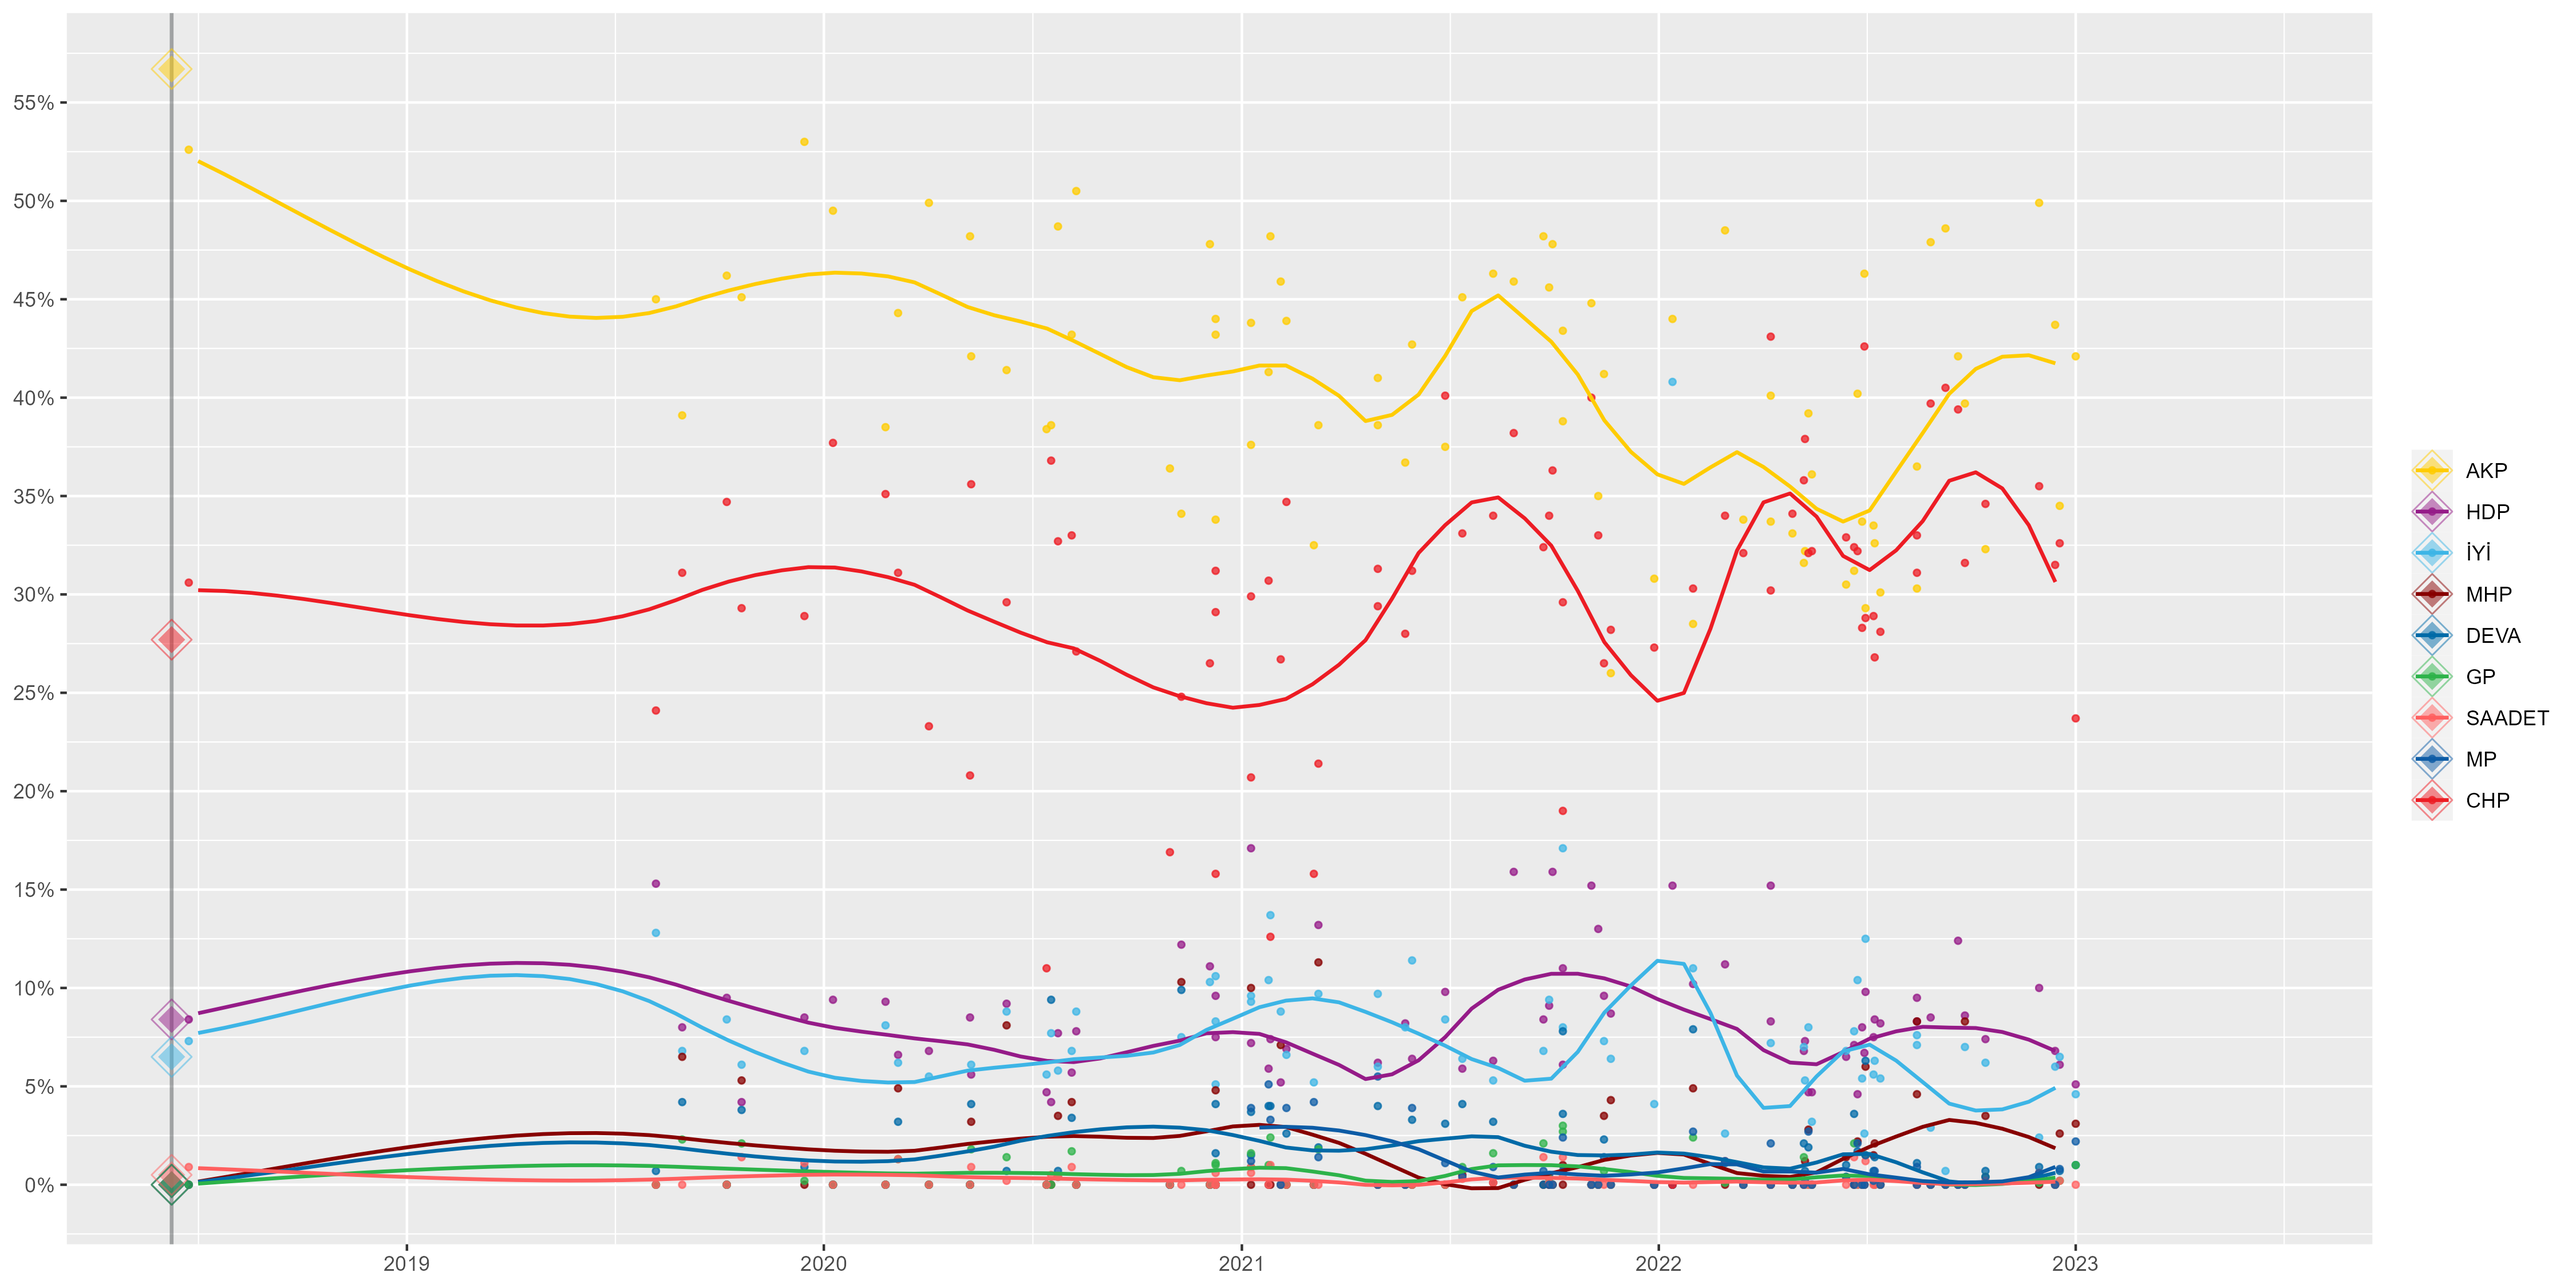
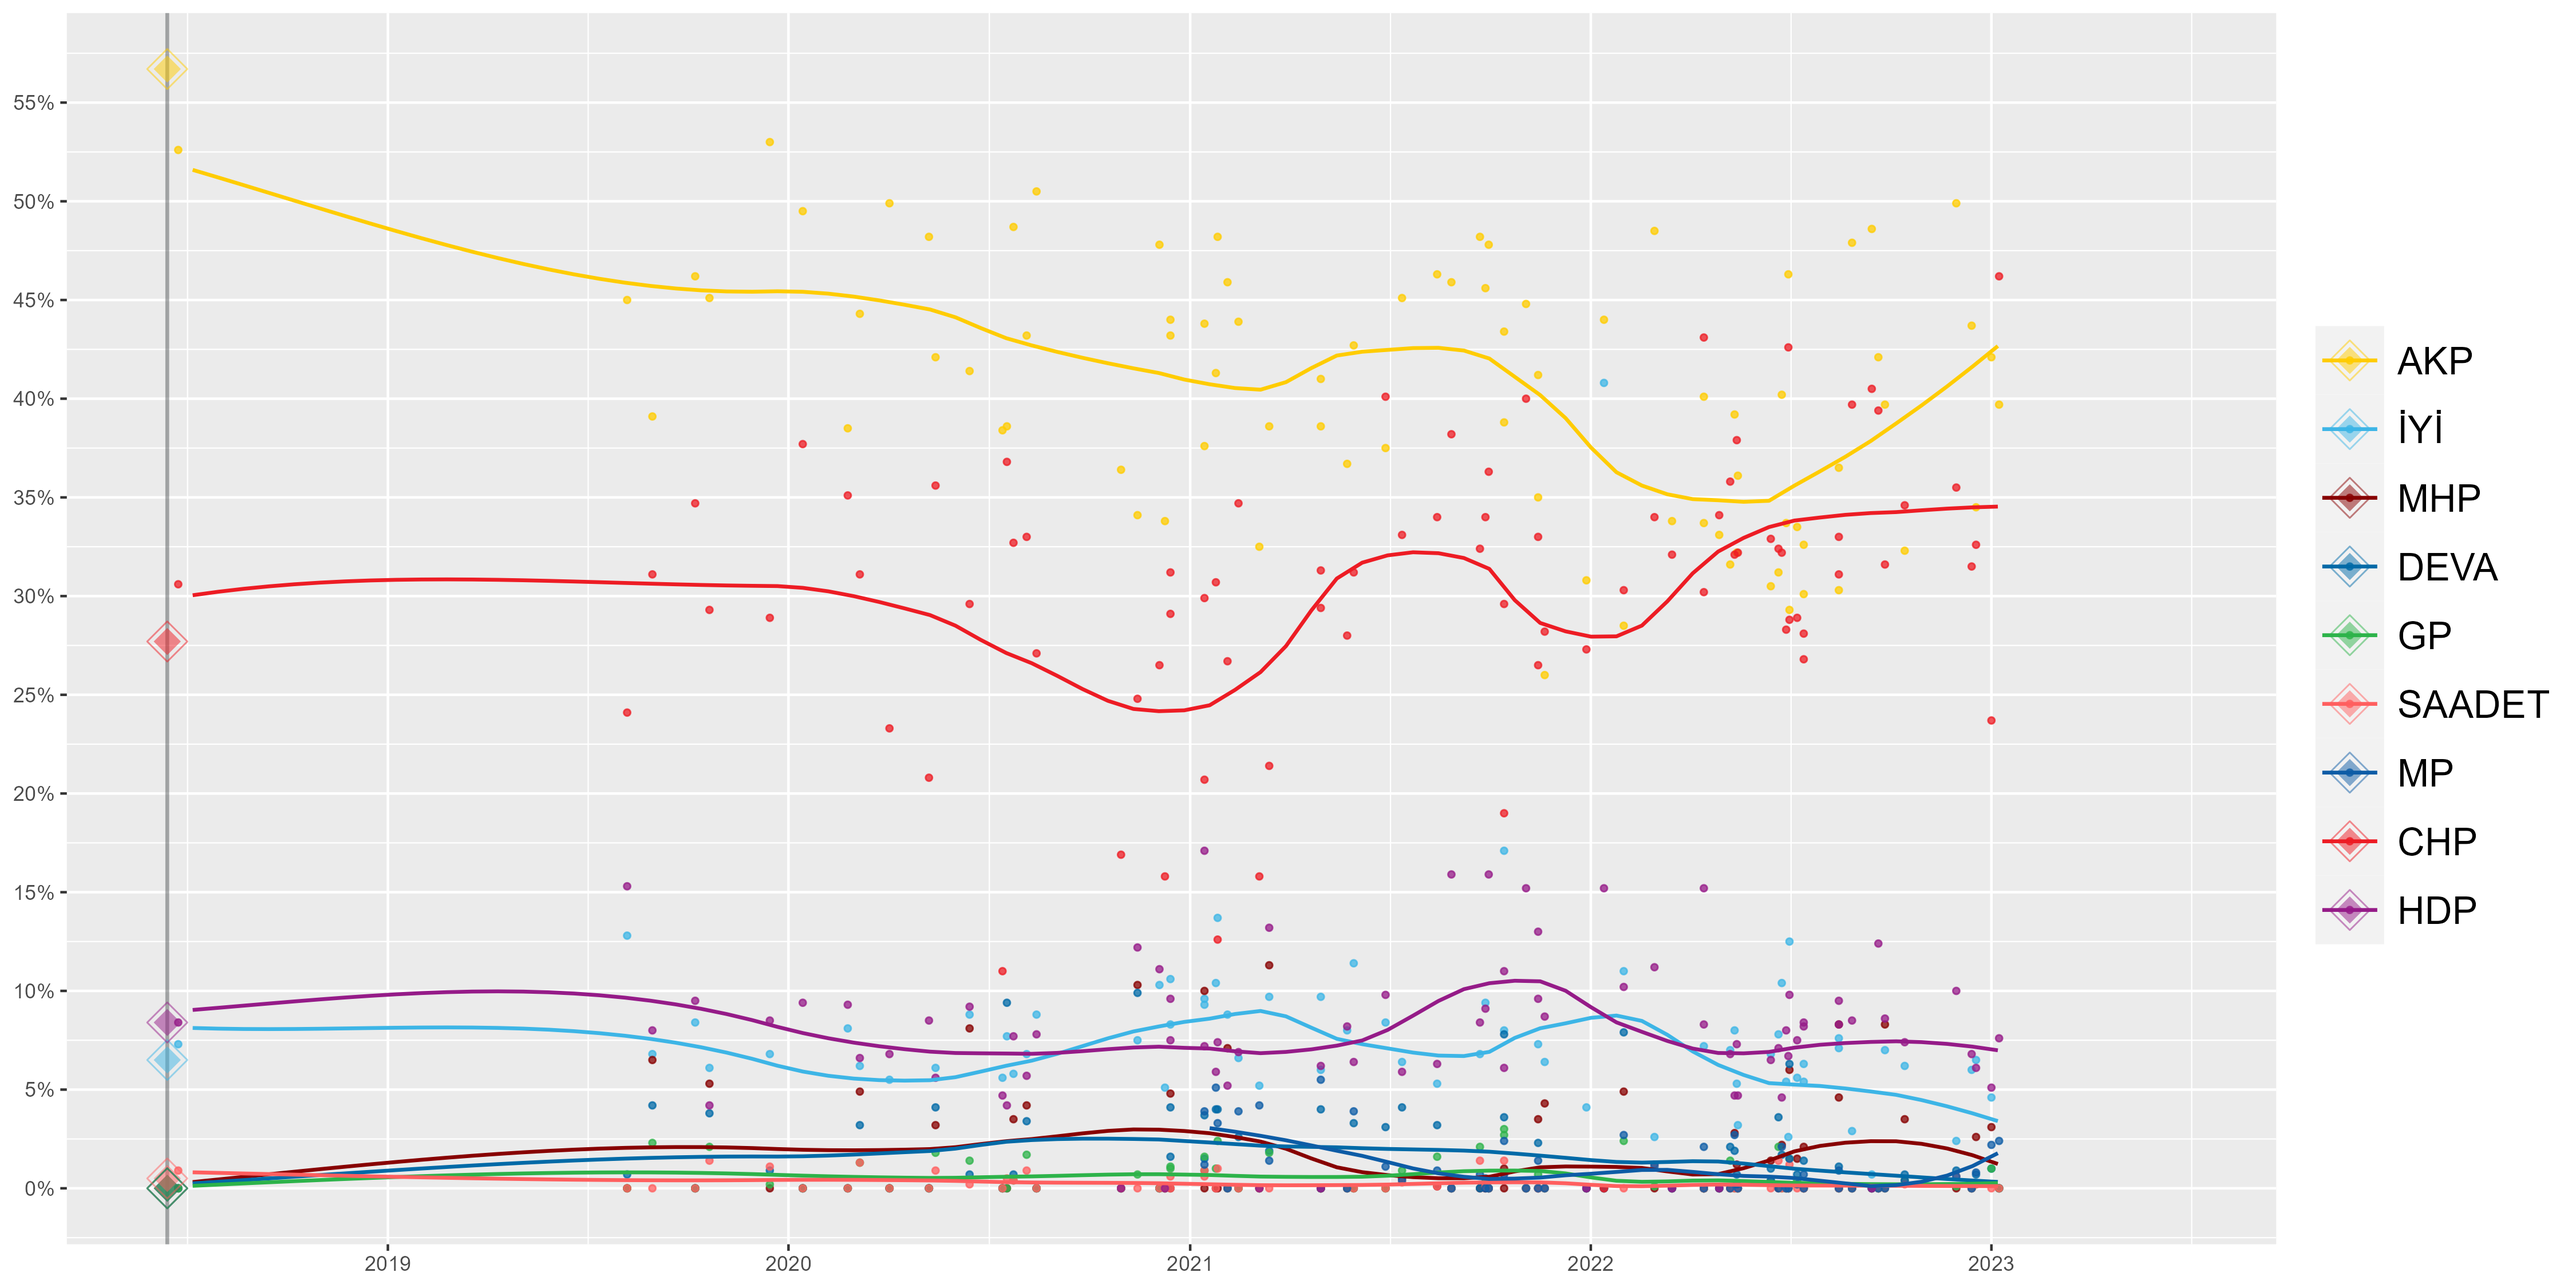
Updated Polls

diff --git a/Turkish_Elections/data.py b/Turkish_Elections/data.py
@@ -14,10 +14,11 @@ df=pd.read_html(str(tables), decimal=',', thousands='.')
 # 2023 POLLS
 
 df0=pd.DataFrame(df[0])
-data23 = df0.drop(['Anket şirketi',	'Örneklem', 'Diğerleri','Fark','Erbakan YRP'], axis=1)
-headers = ['Date', 'AKP', 'CHP1', 'CHP2', 'CHP3', 'HDP', 'İYİ', 'MHP','DEVA', 'GP', 'SAADET', 'MP']
-parties = ['AKP', 'CHP1', 'CHP2', 'CHP3', 'HDP', 'İYİ', 'MHP','DEVA', 'GP', 'SAADET', 'MP']
+data23 = df0.drop(['Anket şirketi',	'Örneklem', 'Özdağ ZP','Fark','Erbakan YRP'], axis=1)
+headers = ['Date', 'AKP', 'CHP1', 'CHP2', 'CHP3', 'HDP1', 'HDP2', 'İYİ', 'MHP', 'DEVA', 'GP', 'SAADET', 'MP']
+parties = ['AKP', 'CHP1', 'CHP2', 'CHP3', 'HDP1', 'HDP2', 'İYİ', 'MHP', 'DEVA', 'GP', 'SAADET', 'MP']
 CHP = ['CHP1', 'CHP2', 'CHP3']
+HDP = ['HDP1', 'HDP2']
 data23.columns = headers
 data23['Date2'] = data23['Date'].str.split('–').str[1]
 # data23['Date'] = ['15 ' + x for x in data23['Date'].astype(str)]
@@ -30,14 +31,15 @@ for z in parties:
     data23[z] = [x.replace('–','0') for x in data23[z].astype(str)]
 data23[parties] = data23[parties].astype(float)
 data23['CHP'] = data23[CHP].sum(axis=1)
-data23 = data23.drop(CHP, axis=1)
+data23['HDP'] = data23[HDP].sum(axis=1)
+data23 = data23.drop(CHP + HDP, axis=1)
 print(data23)
 
 
 # 2022 POLLS
 
 df1=pd.DataFrame(df[1])
-data22 = df1.drop(['Anket şirketi',	'Örneklem', 'Diğerleri','Fark',], axis=1)
+data22 = df1.drop(['Anket şirketi',	'Örneklem', 'Özdağ ZP','Fark',], axis=1)
 headers = ['Date', 'AKP', 'CHP1', 'CHP2', 'CHP3', 'HDP1', 'HDP2', 'İYİ', 'MHP', 'DEVA', 'GP', 'SAADET', 'MP']
 parties = ['AKP', 'CHP1', 'CHP2', 'CHP3', 'HDP1', 'HDP2', 'İYİ', 'MHP', 'DEVA', 'GP', 'SAADET', 'MP']
 HDP = ['HDP1', 'HDP2']
@@ -95,7 +97,7 @@ parties = ['AKP', 'CHP1', 'CHP2', 'CHP3', 'CHP4', 'HDP1', 'HDP2', 'İYİ', 'MHP'
 CHP = ['CHP1', 'CHP2', 'CHP3', 'CHP4']
 HDP = ['HDP1', 'HDP2']
 data20.columns = headers  
-data20 = data21[data20['AKP'] != data20['MHP']]
+data20 = data20[data20['AKP'] != data20['MHP']]
 data20['Date2'] = data20['Date'].str.split('–').str[1]
 # data20['Date'] = ['15 ' + x for x in data20['Date'].astype(str)]
 data20.Date2.fillna(data20.Date, inplace=True)
